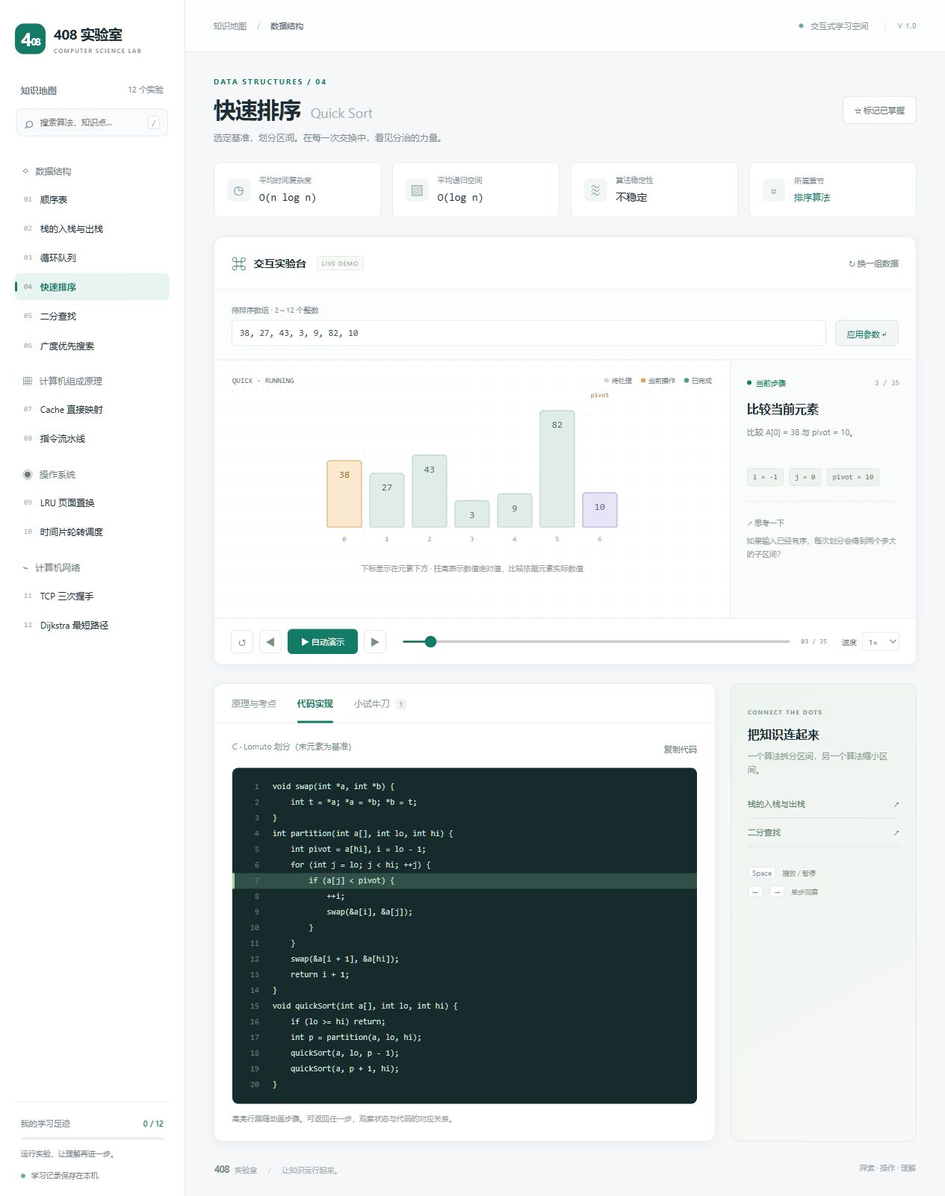
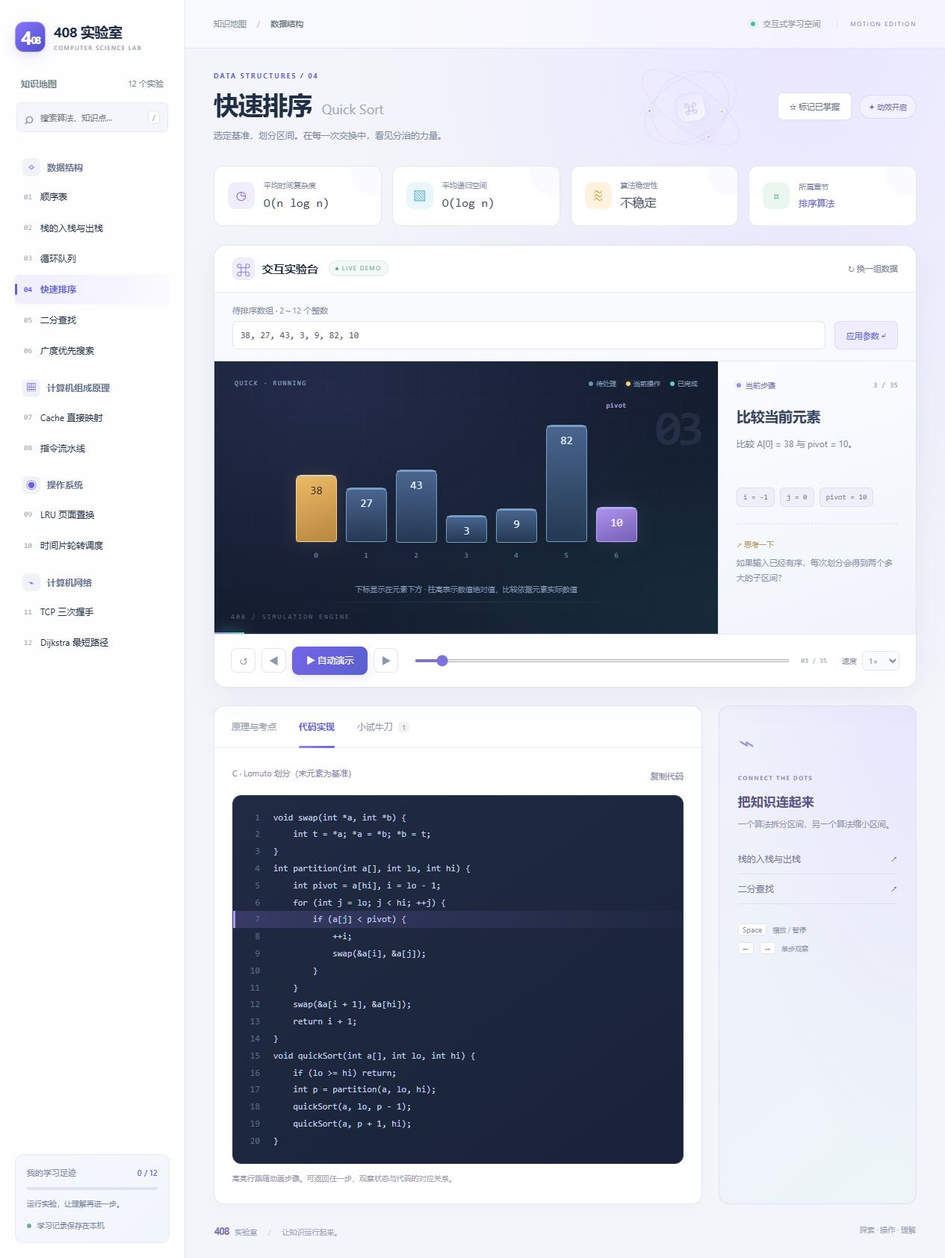
Add fluid algorithm transitions and refresh lab visuals

diff --git a/dist/visual.css b/dist/visual.css
@@ -1,0 +1,18 @@
+/* Motion edition: bright reading surfaces around a high-contrast simulation stage. */
+:root{--bg:#f3f5fa;--ink:#202d46;--muted:#7e8aa3;--line:#e5e9f2;--green:#6360df;--mint:#efedff;--accent:#7d75ff;--shadow:0 9px 35px #313f6610}
+body{background:radial-gradient(ellipse at 85% 0%,#e9e6ff 0,transparent 40%),var(--bg);font-size:14px}
+body[data-subject="1"]{--green:#267eac;--mint:#e9f4fc;--accent:#4baee2}body[data-subject="2"]{--green:#9864c7;--mint:#f5edfc;--accent:#b68df2}body[data-subject="3"]{--green:#138d8b;--mint:#e6f7f3;--accent:#43c7bc}
+.sidebar{background:#ffffffed;border-right:1px solid #e3e7f1;padding-top:27px}.brand-icon{background:linear-gradient(140deg,#8574ff,#504fc6);box-shadow:0 5px 15px #7266e630;border:1px solid #ffffff70}.brand small{color:#99a3b7}.nav-caption{margin-top:32px}.search{background:#f5f6fb;border-color:#e9ecf4;height:40px}.nav-item{padding:10px 12px;transition:background .22s,translate .22s,color .22s}.nav-item:hover{background:#f4f3fe;translate:3px 0}.nav-item.active{background:linear-gradient(90deg,var(--mint),#fafaff);box-shadow:0 2px 6px #6460dc08}.nav-item.active .nav-index{color:var(--green)}.nav-group-title{color:#667493;font-weight:650}.nav-group-title b{background:#f0f2f9;width:24px;height:24px;border-radius:7px;display:grid;place-items:center;color:var(--green)}.side-bottom{background:linear-gradient(135deg,#f7f7ff,#f1f6fb);border:1px solid #e5e9f3;border-radius:11px;padding:15px;margin-top:15px}.progress-track{background:#e0e3f2}.topbar{height:65px;background:#ffffff80;backdrop-filter:blur(16px);border-bottom:1px solid #e2e6f2}.version{font-size:8px;letter-spacing:1.8px;color:#7a72bc}.status-dot{background:#48bd9c;box-shadow:0 0 0 4px #48bd9c12}.top-meta{color:#8e96ad}
+main{padding-top:29px}.page-heading{position:relative;min-height:104px;padding:0 0 7px;isolation:isolate}.page-heading h1{font-size:34px;letter-spacing:-1.3px;margin:8px 0}.page-heading h1 small{color:#9aa4bd;font-size:18px}.page-heading p{color:#7d88a0;font-size:12px}.eyebrow{font-size:9px;letter-spacing:2px;color:var(--green)}.heading-actions{display:flex;align-items:center;gap:10px;position:relative;z-index:2}.secondary{border-color:#e0e3f1;box-shadow:0 2px 5px #27344904;color:#68738b;transition:translate .2s,box-shadow .2s}.secondary:hover{translate:0 -2px;box-shadow:0 5px 12px #5557a014}.motion-toggle{border:1px solid #ddd9f5;border-radius:20px;background:#f4f1ff;color:#7970bc;padding:7px 12px;font-size:10px;white-space:nowrap}.orbit-art{position:absolute;right:220px;top:-10px;width:165px;height:120px;z-index:-1;opacity:.6;pointer-events:none}.orbit{position:absolute;inset:20px 15px;border:1px solid #b5acf44a;border-radius:50%;transform:rotate(-30deg)}.orbit:nth-child(2){transform:rotate(35deg);inset:30px 5px}.orbit:nth-child(3){inset:5px 36px;transform:rotate(50deg)}.orbit i{position:absolute;width:7px;height:7px;left:10%;top:15%;background:#9d8be4;border:2px solid #f4f1ff;border-radius:50%;box-shadow:0 0 15px #b7a2ef}.orbit:nth-child(2) i{background:#58cdb9;left:75%;top:75%}.orbit:nth-child(3) i{background:#e9b45c;left:80%;top:20%}.orbit-core{position:absolute;inset:41px 63px;display:grid;place-items:center;background:linear-gradient(145deg,#e5e0ff,#fff);border:1px solid #d6d0f2;border-radius:12px;color:#9b8dd0;font:17px Consolas;box-shadow:6px 9px 20px #a297d826;animation:levitate 6s ease-in-out infinite}.fact{border-radius:12px;padding:17px 18px;border-color:#e2e7f1;transition:translate .25s,box-shadow .25s;position:relative;overflow:hidden}.fact:after{content:'';position:absolute;width:65px;height:65px;right:-25px;top:-25px;border-radius:50%;background:#8478f609}.fact:hover{translate:0 -4px;box-shadow:0 10px 22px #45558b12}.fact-icon{width:36px;height:36px;background:#f0edff;color:#8973d9;border-radius:10px}.fact:nth-child(2) .fact-icon{background:#eaf6fc;color:#5badd1}.fact:nth-child(3) .fact-icon{background:#fff3df;color:#d6a351}.fact:nth-child(4) .fact-icon{background:#e9f7ef;color:#61b095}.fact small{color:#8792a8}.fact strong{font-size:16px;color:#3d4962}.fact:last-child strong{color:var(--green)}
+.experiment{border-radius:17px;border-color:#dee5ef;box-shadow:0 12px 40px #293c6410;position:relative}.section-top{padding:16px 24px;background:white}.section-icon{width:30px;height:30px;background:var(--mint);border:1px solid #e9e4fa;border-radius:9px;display:grid;place-items:center;font-size:19px}.section-top h2{font-size:15px}.tag{background:#f2f9f6;color:#4c9e88;border-color:#dceee7;border-radius:20px;padding:3px 8px;font-size:8px;letter-spacing:1.4px}.tag:before{content:'';display:inline-block;width:4px;height:4px;background:#50ad90;border-radius:50%;margin-right:5px}.text-button{color:#78829c;transition:color .2s}.text-button:hover{color:var(--green)}.config{background:#f9fafe;padding:15px 24px}.field label{font-size:11px;color:#8490a7}.field input,.field select{background:#fff;border-color:#e0e5f0;border-radius:8px;height:38px;font-size:12px;color:#4f5c78;transition:border-color .2s,box-shadow .2s}.field input:focus,.field select:focus{outline:none;border-color:#a19ae9;box-shadow:0 0 0 3px #8174e912}.config .secondary{height:38px;background:var(--mint);color:var(--green);border-color:#e0dcf6}
+.lab-layout{grid-template-columns:minmax(0,1fr) 265px;min-height:365px}.lab-main{position:relative;isolation:isolate;background:radial-gradient(ellipse at 22% 10%,#30396180,transparent 65%),radial-gradient(ellipse at 100% 90%,#173f4566,transparent 55%),#151d31;background-size:auto;overflow:hidden;padding:22px 27px 20px}.lab-main:before{content:'';position:absolute;inset:0;z-index:-1;pointer-events:none;background-image:linear-gradient(#748cb70b 1px,transparent 1px),linear-gradient(90deg,#748cb70b 1px,transparent 1px);background-size:25px 25px;mask-image:linear-gradient(#000a,transparent)}.lab-main:after{content:'';position:absolute;bottom:42px;left:14%;right:14%;height:1px;background:linear-gradient(90deg,transparent,#6b8fba35,transparent);box-shadow:0 5px 25px #4a9fad22;z-index:-1}.canvas-top{position:relative;z-index:2;font-size:10px}.canvas-top>span{color:#89a3c6;letter-spacing:1.5px;font-size:9px}.legend{color:#7d92b2;font-size:9px;gap:13px}.legend i{width:6px;height:6px;border-radius:50%}.legend .legend-normal{background:#6e91b8}.legend .legend-active{background:#ffd17e;box-shadow:0 0 7px #ffd17e55}.legend .legend-done{background:#5ed7b7}.stage-watermark{position:absolute;left:22px;bottom:18px;font:9px Consolas;letter-spacing:2px;color:#53627e;pointer-events:none}.stage-counter{position:absolute;right:24px;top:52px;color:#738cb526;font:64px Consolas;letter-spacing:-5px;pointer-events:none;font-weight:700}.scene-progress-track{position:absolute;bottom:0;left:0;right:0;height:2px;background:#7387ac15}.scene-progress-track i{display:block;width:0;height:100%;background:linear-gradient(90deg,#a68aff,#55dfc3);box-shadow:0 0 15px #5df2d1;transition:width .45s ease}.visual{position:relative;z-index:1;height:260px;min-width:0;overflow-y:visible;overflow-x:auto;padding:18px 0 20px;scrollbar-width:thin;scrollbar-color:#344969 transparent}.scene-caption{color:#7b8fae;font-size:10px;position:relative;z-index:2}.step-aside{padding:24px;background:linear-gradient(160deg,#fbfcff,#f0f4fa);border-left:1px solid #e3e9f2}.aside-label{color:#7c78b3;font-size:10px}.pulse{background:#9d92e6;box-shadow:0 0 0 4px #9d92e615}.step-aside h3{font-size:19px;color:#35435f;margin:18px 0 10px;letter-spacing:-.3px}.step-aside>p{font-size:12px;color:#7a879e;line-height:1.9;min-height:54px}.variable{border:1px solid #dddff0;background:#eeeff8;color:#77799f;border-radius:6px;padding:4px 8px;font-size:10px}.tip{border-top-color:#dbe0ee;margin-top:22px}.tip>span{color:#b69763}.tip p{font-size:11px;color:#8993aa}.transport{background:#fff;padding:16px 22px;gap:20px}.primary{background:linear-gradient(110deg,#7464e8,#5a61ce);border:0;border-radius:9px;box-shadow:0 4px 12px #6862d92b;font-size:12px;padding:9px 19px;transition:box-shadow .2s,translate .2s}.primary:hover{box-shadow:0 7px 18px #6862d948;translate:0 -1px}.icon-button{border-radius:8px;width:33px;height:33px;border-color:#e1e5ef;color:#8b96b0}.icon-button:hover{background:var(--mint);color:var(--green)}.timeline input{accent-color:#7b72dc;height:4px}.timeline span{color:#9ca5b7}.speed select{border-radius:6px;color:#7e86a5;background:#fafbff;border-color:#e4e7f0}.speed{color:#939cb0}.experiment.is-playing .pulse{animation:breathe 1.8s ease-in-out infinite}.experiment.is-playing .tag:before{animation:breathe 1.4s ease-in-out infinite}.experiment.is-complete .section-icon{color:#38a88c;background:#e3f8f0;border-color:#c7e9de}
+.bars{height:205px;gap:12px;max-width:650px;padding-bottom:26px;position:relative}.bar-column{max-width:55px}.bar{border:1px solid #709ec5;background:linear-gradient(180deg,#6187b9aa,#3d638755);border-radius:8px 8px 4px 4px;color:#e8f1ff;font-size:15px;box-shadow:inset 0 1px 0 #c1e3ff25,0 5px 16px #00000015;transition:background .3s,color .3s,box-shadow .3s;position:relative;z-index:1;will-change:transform}.bar:before{content:'';position:absolute;left:0;right:0;top:0;height:2px;background:#a8c7f080;border-radius:9px}.bar.active,.cell.active{background:linear-gradient(160deg,#edba64,#b78742);border-color:#ffd390;color:#362b1c;box-shadow:0 0 22px #ffc96a20,inset 0 1px 0 #ffeba070}.bar.pivot,.cell.pivot{background:linear-gradient(160deg,#af93ef,#7360b4);border-color:#c7acff;color:#f7eeff;box-shadow:0 0 22px #b89dff20}.bar.done,.cell.done{background:linear-gradient(160deg,#53beaa,#2c776f);border-color:#82ddc6;color:#e1fff4;box-shadow:0 0 20px #48d4b61a}.bar.muted,.cell.muted{opacity:.22}.bar-index{font-size:10px;color:#7389a9;bottom:-24px}.pointer{top:-9px;color:#c5acf8;font-size:9px;letter-spacing:.5px}.cell{border-color:#496b88;background:linear-gradient(160deg,#304660,#25374f);color:#ccdcf5;border-radius:9px;min-width:48px;height:48px;box-shadow:inset 0 1px 0 #8fb0d41a;will-change:transform}.cell.empty{background:#1c283a66;border-color:#40516b;color:#536886;box-shadow:none}.cell-label{color:#7c91b1;font-size:10px}.array-row{gap:9px}.metric-row{color:#92a6c3;font-size:11px}.metric-chip{background:#24364e;border-color:#405777;color:#a8c3e2;border-radius:9px;padding:8px 12px}.stack{border-color:#4d6a8d;background:linear-gradient(0deg,#253d5733,transparent);min-width:120px;border-radius:0 0 10px 10px;padding:8px}.stack-caption{color:#8ba4c3}.stack .cell{border-radius:5px}.gantt-block{color:#b9c9e6;background:#293951;border-color:#496084;box-shadow:inset 0 1px #8098bf30}.gantt-block.active{background:linear-gradient(130deg,#8b73cf,#5f63a4);border-color:#b1a1ec;color:#ece5ff}.gantt-block small{color:#8f9cba}.matrix{font-size:11px;border-spacing:5px}.matrix th{color:#8ba4c5;font-size:10px}.matrix td{background:#293c5466;color:#b2c7e4;border:1px solid #48617d33;min-width:27px;border-radius:5px}.matrix td.active{background:#a9874a;color:#fff1cd;border-color:#ffda9299;box-shadow:0 0 14px #e8bc5c15}.matrix td.done{background:#285951;color:#88d8c1;border-color:#508d7d66}.matrix td.empty{background:#1a26396b;color:#445778;border-color:#253750}.matrix-wrap{padding:0 0 8px}.diagram{height:235px;filter:drop-shadow(0 8px 14px #00000010)}.diagram text{fill:#a6bedb;font-size:12px}.diagram circle{fill:#23354e;stroke:#496c92;stroke-width:2;filter:drop-shadow(0 0 5px #6585ba10)}.diagram circle.active{fill:#b38a48;stroke:#f6c984;filter:drop-shadow(0 0 10px #edb34a55)}.diagram circle.done{fill:#265b52;stroke:#56c6ac}.diagram .edge{stroke:#3b5273;stroke-width:2}.diagram .edge.done{stroke:#56c9b3;stroke-width:2.6;filter:drop-shadow(0 0 4px #5ac7ac33)}.diagram rect{fill:#1b2a40}.diagram circle.motion-packet{fill:#d9fff2;stroke:#74e3c7;stroke-width:1;filter:drop-shadow(0 0 5px #91ffe1);pointer-events:none}.tcp-status{fill:#90a8c6!important;font-size:9px!important}.motion-ghost{z-index:8!important;filter:drop-shadow(0 0 10px #d5a7ff55)}.celebration{position:absolute;inset:0;display:grid;place-items:center;pointer-events:none;z-index:10;overflow:hidden}.celebration i{position:absolute;width:5px;height:8px;border-radius:2px;left:50%;top:50%}
+.content-card{border-radius:14px;border-color:#e3e7f1;box-shadow:0 6px 20px #33496706}.lower-grid{gap:22px;grid-template-columns:minmax(0,1fr) 265px;margin-top:24px}.tabs{gap:30px}.tabs button{padding:18px 0;color:#8a94ab}.tabs button[aria-selected=true]:after{background:linear-gradient(90deg,#9a80f3,#6769d7);border-radius:5px;height:3px}.tab-panel{font-size:12px;color:#77849c;padding:24px}.tab-panel h3{color:#45526d}.principle-grid{gap:25px}.exam-note{border-color:#ddbc7f;color:#a09274;background:#fbf8f0;padding:12px 14px;border-radius:0 8px 8px 0}.connection-card{background:radial-gradient(ellipse at top right,#e3ddff88,transparent 65%),linear-gradient(140deg,#eff0fc,#edf5f7);border-color:#dee2f2;border-radius:14px;padding:25px}.connection-card:before{content:'⌁';display:block;font-size:38px;line-height:1.1;color:#9e92dc;margin-bottom:17px}.connection-card .eyebrow{color:#9c8bc6}.connection-card h3{color:#5b5489;font-size:17px}.connection-card>p{color:#8e90ac}.related{color:#74759b;border-color:#dedff0;font-size:12px;transition:padding .2s}.related:hover{padding-left:5px;color:var(--green)}.keyboard-hint{color:#969eb4}.code-toolbar span{color:#8b81ab}pre{background:linear-gradient(145deg,#202b43,#192238);border:1px solid #303e59;color:#c5d3f0;border-radius:12px;font-size:12px;line-height:1.9;padding:18px 0}.line-number{color:#596e91}.code-line{transition:background .3s,border-color .3s}.code-line.highlight{background:linear-gradient(90deg,#7e6ccf40,#7e6ccf09);border-left-color:#ae95ff}.code-hint{color:#9ba1b3}.quiz-option{border-radius:9px;background:#f8f9fe;color:#677791;border-color:#e6e9f4;transition:translate .2s,background .2s}.quiz-option:hover{translate:4px 0}.quiz-option.correct{background:#e6f5ed;border-color:#8ac6aa}.quiz-option.wrong{background:#fff0ed;border-color:#e3b4a5}.toast{background:#302e50;color:#eee9ff;border:1px solid #ffffff25;box-shadow:0 9px 30px #27284533;border-radius:10px;backdrop-filter:blur(10px)}footer{color:#9ca6bb}footer b{color:#8373b8}
+@keyframes levitate{0%,100%{transform:translateY(0) rotate(-10deg)}50%{transform:translateY(-9px) rotate(6deg)}}@keyframes breathe{0%,100%{box-shadow:0 0 0 0 #a597e43a}50%{box-shadow:0 0 0 5px #a597e400}}
+@media(min-width:1500px){.lab-layout,.lower-grid{grid-template-columns:minmax(0,1fr) 300px}.visual{height:290px}.bars{height:225px}.lab-layout{min-height:400px}}
+@media(max-width:1150px){.lab-layout,.lower-grid{grid-template-columns:minmax(0,1fr) 220px}.lab-main{padding:20px}.step-aside{padding:20px}.fact-icon{display:flex;width:30px;height:30px;flex-shrink:0}.fact{padding:14px;gap:10px}.fact strong{font-size:13px}.orbit-art{right:190px;opacity:.35}.heading-actions{flex-direction:column;align-items:flex-end}.page-heading h1{font-size:31px}.bar-column{max-width:45px}.bars{gap:9px}.cell{min-width:37px}.array-row{gap:6px}}
+@media(max-width:900px){.lab-layout,.lower-grid{grid-template-columns:1fr}.step-aside{grid-template-columns:1fr 1fr;padding:20px;border-left:0}.step-aside h3{margin:3px 0;font-size:17px}.step-aside>p{min-height:0}.tip{margin-top:7px}.fact-icon{display:none}.orbit-art{display:none}.connection-card{display:none}.visual{height:250px}.lab-main{padding-bottom:23px}.page-heading h1 small{font-size:14px}.step-aside .tip{padding-top:10px}.stage-counter{font-size:55px;top:42px}.page-heading{min-height:110px}}
+@media(max-width:650px){.sidebar{visibility:hidden;pointer-events:none}.sidebar.open{visibility:visible;pointer-events:auto}.topbar{height:56px}.page-heading{min-height:140px;margin-bottom:16px;padding-bottom:24px;align-items:flex-start}.page-heading h1{font-size:28px}.page-heading p{font-size:11px}.heading-actions{gap:6px;margin-top:3px}.heading-actions .secondary{font-size:9px;padding:7px 9px}.motion-toggle{font-size:9px;padding:5px 8px}.page-heading h1 small{font-size:12px}.fact-icon{display:flex;width:29px;height:29px}.fact{padding:13px;gap:9px}.facts{gap:10px}.fact strong{font-size:13px}.fact small{font-size:9px}.section-top{padding:15px}.section-top h2{font-size:14px}.config{padding:14px}.lab-main{padding:18px 14px 24px}.canvas-top{flex-wrap:wrap;gap:9px}.legend{font-size:8px;gap:10px}.visual{height:240px;padding-top:24px}.bar{font-size:13px;border-radius:6px 6px 3px 3px}.bars{gap:7px;height:190px}.cell{min-width:32px;height:40px;border-radius:7px}.array-row{gap:5px}.stage-watermark{font-size:7px;left:14px;bottom:7px}.stage-counter{font-size:46px;right:12px}.scene-caption{font-size:8px}.step-aside{padding:17px;gap:9px 12px}.step-aside>p{font-size:11px}.tip p{font-size:10px}.variable{font-size:9px;padding:4px 6px}.transport{padding:14px;gap:10px}.primary{font-size:11px;padding:9px 15px}.timeline{flex-basis:100%;order:3}.speed{margin-left:auto}.lower-grid{margin-top:19px}.tab-panel{padding:18px}.tabs{padding:0 18px;gap:26px}.diagram{height:210px}.matrix{font-size:9px;border-spacing:3px}.matrix td{min-width:24px;padding:5px}.matrix th{font-size:9px}.fact:after{right:-35px}.stage-counter{display:none}pre{font-size:10px}.cell-label{font-size:8px}.brand{font-size:19px}.brand small{font-size:8px}.brand-icon{width:41px;height:41px}}
+.matrix-wrap{width:100%;overflow-x:auto;overflow-y:hidden;scrollbar-width:thin;scrollbar-color:#425478 transparent}.matrix th{white-space:nowrap}.visual:has(.matrix-wrap){overflow:visible;align-items:stretch}.visual:has(.matrix-wrap) .array-row{align-self:center}
+.motion-off *,.motion-off *:before,.motion-off *:after{animation:none!important;transition:none!important;scroll-behavior:auto!important}
+@media(prefers-reduced-motion:reduce){*,*:before,*:after{animation:none!important;transition:none!important;scroll-behavior:auto!important}}

diff --git a/dist/app.js b/dist/app.js
@@ -6,19 +6,19 @@ let mastered=new Set();try{mastered=new Set(JSON.parse(localStorage.getItem('cs4
 const presets={};
 function toast(text){$('#toast').textContent=text;$('#toast').hidden=false;clearTimeout(toastTimer);toastTimer=setTimeout(()=>$('#toast').hidden=true,2300);}
 function renderNav(){const query=$('#search').value.trim().toLowerCase();$('#nav').innerHTML=GROUPS.map((g,i)=>{const rows=LESSONS.filter(l=>l.group===i&&`${l.title} ${l.en} ${l.id}`.toLowerCase().includes(query));return rows.length?`<div class="nav-group"><div class="nav-group-title"><b>${g.icon}</b>${g.name}</div>${rows.map(l=>`<button class="nav-item ${l.id===lesson?.id?'active':''}" data-lesson="${l.id}" ${l.id===lesson?.id?'aria-current="page"':''}><span class="nav-index">${String(LESSONS.indexOf(l)+1).padStart(2,'0')}</span>${l.title}<span class="nav-done">${mastered.has(l.id)?'✓':''}</span></button>`).join('')}</div>`:'';}).join('')||'<p class="empty-search">没有找到知识点，试试“排序”或“TCP”。</p>';$('#progress-text').textContent=`${mastered.size} / ${LESSONS.length}`;$('#progress-fill').style.width=mastered.size/LESSONS.length*100+'%';}
-function stop(){clearInterval(timer);timer=null;$('#play').textContent='▶ 自动演示';$('#play').setAttribute('aria-label','自动演示');}
-function togglePlay(){if(timer){stop();return;}if(position===steps.length-1)position=0;renderStep();$('#play').textContent='Ⅱ 暂停演示';$('#play').setAttribute('aria-label','暂停演示');timer=setInterval(()=>{if(position<steps.length-1){position++;renderStep();}if(position===steps.length-1)stop();},Number($('#speed').value));}
+function stop(){clearInterval(timer);timer=null;document.querySelector('.experiment').classList.remove('is-playing');$('#play').textContent='▶ 自动演示';$('#play').setAttribute('aria-label','自动演示');}
+function togglePlay(){if(timer){stop();return;}if(position===steps.length-1)position=0;renderStep();document.querySelector('.experiment').classList.add('is-playing');$('#play').textContent='Ⅱ 暂停演示';$('#play').setAttribute('aria-label','暂停演示');timer=setInterval(()=>{if(position<steps.length-1){position++;renderStep();}if(position===steps.length-1)stop();},Number($('#speed').value));}
 function valuesFromForm(){return Object.fromEntries(new FormData($('#config')).entries());}
-function loadData(){stop();try{const values=valuesFromForm();const next=buildSteps(lesson.id,values);steps=next;presets[lesson.id]=values;position=0;$('#input-error').textContent='';$('#timeline').max=steps.length-1;renderStep();return true;}catch(e){$('#input-error').textContent=e.message;return false;}}
+function loadData(){stop();try{const values=valuesFromForm();const next=buildSteps(lesson.id,values);steps=next;LabMotion.reset();presets[lesson.id]=values;position=0;$('#input-error').textContent='';$('#timeline').max=steps.length-1;renderStep();return true;}catch(e){$('#input-error').textContent=e.message;return false;}}
 function selectLesson(id){lesson=LESSONS.find(l=>l.id===id)||LESSONS.find(l=>l.id==='quick');stop();$('#breadcrumb').textContent=GROUPS[lesson.group].name;$('#eyebrow').textContent=`${GROUPS[lesson.group].en} / ${String(LESSONS.indexOf(lesson)+1).padStart(2,'0')}`;$('#title').innerHTML=`${lesson.title}<small>${lesson.en}</small>`;$('#subtitle').textContent=lesson.subtitle;document.title=`${lesson.title} · 408 实验室`;$('#facts').innerHTML=lesson.facts.map((v,i)=>`<div class="fact"><span class="fact-icon">${['◷','▧','≋','⌑'][i]}</span><div><small>${lesson.labels[i]}</small><strong>${v}</strong></div></div>`).join('');
  const preset=presets[lesson.id]||{};$('#config').innerHTML=lesson.fields.map(f=>`<div class="field ${f.wide?'wide':''}"><label for="field-${f.key}">${f.label}</label>${f.options?`<select id="field-${f.key}" name="${f.key}">${f.options.map(([v,label])=>`<option value="${v}" ${String(preset[f.key]??f.value)===v?'selected':''}>${label}</option>`).join('')}</select>`:`<input autocomplete="off" id="field-${f.key}" name="${f.key}" type="${f.type||'text'}" ${f.type==='number'?'step="1"':''} value="${esc(preset[f.key]??f.value)}">`}</div>`).join('')+'<button type="submit" class="secondary">应用参数 ↵</button>';
  $('#thinking').textContent=lesson.think;$('#principle').innerHTML=`<h3>核心思想</h3><p>${lesson.intro}</p><div class="principle-grid"><div><h3>如何运行</h3><ul>${lesson.principles.map(p=>`<li>${p}</li>`).join('')}</ul></div><div><h3>408 高频考点</h3><ul>${lesson.exams.map(p=>`<li>${p}</li>`).join('')}</ul></div></div><div class="exam-note">${lesson.note}</div>`;
- $('#code-language').textContent=lesson.language;$('#connection-intro').textContent=lesson.connection;$('#connections').innerHTML=lesson.links.map(id=>`<button class="related" data-lesson="${id}">${LESSONS.find(l=>l.id===id).title}<span>↗</span></button>`).join('');renderQuiz();renderNav();renderMark();loadData();$('#sidebar').classList.remove('open');$('#menu-toggle').setAttribute('aria-expanded','false');
+ $('#code-language').textContent=lesson.language;$('#connection-intro').textContent=lesson.connection;$('#connections').innerHTML=lesson.links.map(id=>`<button class="related" data-lesson="${id}">${LESSONS.find(l=>l.id===id).title}<span>↗</span></button>`).join('');renderQuiz();renderNav();renderMark();LabMotion.enterLesson(lesson.group);loadData();$('#sidebar').classList.remove('open');$('#menu-toggle').setAttribute('aria-expanded','false');
 }
 function renderMark(){$('#mark').textContent=mastered.has(lesson.id)?'✓ 已掌握':'☆ 标记已掌握';$('#mark').classList.toggle('marked',mastered.has(lesson.id));$('#mark').setAttribute('aria-pressed',String(mastered.has(lesson.id)));}
 function renderQuiz(){const q=lesson.quiz;$('#quiz').innerHTML=`<h3>${q.q}</h3>${q.options.map((v,i)=>`<button class="quiz-option" data-answer="${i}">${String.fromCharCode(65+i)}. ${v}</button>`).join('')}<div class="quiz-feedback" role="status"></div>`;}
-function codeLines(line){$('#code-text').innerHTML=lesson.code.split('\n').map((s,i)=>`<span class="code-line ${i+1===line?'highlight':''}"><span class="line-number">${i+1}</span>${esc(s)||' '}</span>`).join('');}
-function renderStep(){const s=steps[position];if(!s)return;$('#step-title').textContent=s.title;$('#step-description').textContent=s.description;$('#step-counter').textContent=`${position+1} / ${steps.length}`;$('#variables').innerHTML=Object.entries(s.vars).map(([k,v])=>`<span class="variable">${esc(k)} = ${esc(v)}</span>`).join('');$('#timeline').value=position;$('#timeline-text').textContent=`${String(position+1).padStart(2,'0')} / ${String(steps.length).padStart(2,'0')}`;$('#prev').disabled=position===0;$('#next').disabled=position===steps.length-1;$('#reset').disabled=position===0&&!timer;$('#scene-label').textContent=`${lesson.id.toUpperCase()} · ${position===steps.length-1?'COMPLETE':position===0?'READY':'RUNNING'}`;$('#visual').innerHTML=draw(s);$('#scene-caption').textContent=caption(s);codeLines(s.line);}
+function codeLines(line){const code=$('#code-text');if(code.dataset.lesson!==lesson.id){code.innerHTML=lesson.code.split('\n').map((s,i)=>`<span class="code-line"><span class="line-number">${i+1}</span>${esc(s)||' '}</span>`).join('');code.dataset.lesson=lesson.id;}[...code.children].forEach((el,i)=>el.classList.toggle('highlight',i+1===line));}
+function renderStep(){const s=steps[position];if(!s)return;$('#step-title').textContent=s.title;$('#step-description').textContent=s.description;$('#step-counter').textContent=`${position+1} / ${steps.length}`;$('#variables').innerHTML=Object.entries(s.vars).map(([k,v])=>`<span class="variable">${esc(k)} = ${esc(v)}</span>`).join('');$('#timeline').value=position;$('#timeline-text').textContent=`${String(position+1).padStart(2,'0')} / ${String(steps.length).padStart(2,'0')}`;$('#prev').disabled=position===0;$('#next').disabled=position===steps.length-1;$('#reset').disabled=position===0&&!timer;$('#scene-label').textContent=`${lesson.id.toUpperCase()} · ${position===steps.length-1?'COMPLETE':position===0?'READY':'RUNNING'}`;LabMotion.render($('#visual'),draw(s),s,lesson.id,position,steps.length);$('#scene-caption').textContent=caption(s);codeLines(s.line);}
 function cls(s,i){return (s.done||[]).includes(i)?'done':i===s.pivot?'pivot':(s.active||[]).includes(i)?'active':s.lo!==undefined&&(i<s.lo||i>s.hi)?'muted':'';}
 function cells(a,active=[],labels=true){return a.map((x,i)=>`<div class="cell ${x===null?'empty':''} ${active.includes(i)?'active':''}">${x===null?'·':esc(x)}${labels?`<span class="cell-label">${i}</span>`:''}</div>`).join('');}
 function draw(s){
@@ -48,4 +48,5 @@ $('#random').addEventListener('click',()=>{const set=(k,v)=>{const el=$(`[name="
 $('#menu-toggle').addEventListener('click',()=>{const open=$('#sidebar').classList.toggle('open');$('#menu-toggle').setAttribute('aria-expanded',String(open));});
 document.addEventListener('click',e=>{if(window.innerWidth<=650&&!e.target.closest('#sidebar,#menu-toggle')){$('#sidebar').classList.remove('open');$('#menu-toggle').setAttribute('aria-expanded','false');}});
 window.addEventListener('hashchange',()=>selectLesson(location.hash.slice(1)));document.addEventListener('keydown',e=>{if(e.target.matches('input,textarea,select,button')||e.ctrlKey||e.metaKey||e.altKey)return;if(e.key===' '){e.preventDefault();togglePlay();}if(e.key==='ArrowRight'){e.preventDefault();changeStep(position+1);}if(e.key==='ArrowLeft'){e.preventDefault();changeStep(position-1);}if(e.key==='/'){e.preventDefault();if(innerWidth<=650)$('#sidebar').classList.add('open');$('#search').focus();}if(e.key==='Escape')$('#sidebar').classList.remove('open');});
+$('#motion-toggle').addEventListener('click',()=>LabMotion.toggle());
 selectLesson(location.hash.slice(1)||'quick');

diff --git a/dist/motion.js b/dist/motion.js
@@ -1,0 +1,122 @@
+'use strict';
+// Snapshot the currently painted position, then animate to the next real state.
+// Stable item identities distinguish equal numbers during sorting.
+const LabMotion = (() => {
+  const preference = matchMedia('(prefers-reduced-motion: reduce)');
+  let enabled = true, scene = null, lastPosition = -1;
+  try { enabled = localStorage.getItem('cs408-motion') !== 'off'; } catch {}
+  const active = () => enabled && !preference.matches;
+  const duration = () => Math.min(620, Math.max(180, Number(document.querySelector('#speed').value) * .76));
+  const easing = 'cubic-bezier(.22,1,.36,1)';
+  const nodes = root => [...root.querySelectorAll('[data-motion]')];
+  function syncButton() {
+    document.body.classList.toggle('motion-off', !active());
+    const button = document.querySelector('#motion-toggle');
+    if (button) { button.textContent = active() ? '✦ 动效开启' : '✧ 简洁动效'; button.setAttribute('aria-pressed', String(active())); }
+  }
+  function cancel() {
+    document.querySelectorAll('.motion-ghost,.motion-packet,.celebration').forEach(el => el.remove());
+    document.querySelectorAll('#visual,#visual *,#step-title,#step-description,.variable,.page-heading,.fact,.experiment,.tab-panel').forEach(el => el.getAnimations().forEach(a => a.cancel()));
+  }
+  function toggle() { enabled = !active(); try { localStorage.setItem('cs408-motion', enabled ? 'on' : 'off'); } catch {} cancel(); syncButton(); }
+  function reveal(el, delay = 0) {
+    if (active() && el) {
+      el.getAnimations().forEach(animation=>animation.cancel());
+      el.animate([{opacity:0,transform:'translateY(14px)'},{opacity:1,transform:'translateY(0)'}], {duration:Math.min(duration(),360),delay,easing});
+    }
+  }
+  function enterLesson(group) {
+    scene = null; lastPosition = -1;
+    document.body.dataset.subject = group;
+    cancel(); syncButton();
+    reveal(document.querySelector('.page-heading'));
+    document.querySelectorAll('.fact').forEach((el,i) => reveal(el,70+i*45));
+    reveal(document.querySelector('.experiment'),100);
+  }
+  function decorate(root,s) {
+    const key = (el,id) => { if(el) el.dataset.motion=id; };
+    if(s.kind==='bars') root.querySelectorAll('.bar').forEach((el,i)=>key(el,'bar:'+(s.ids?.[i]??i)));
+    if(['array','queue'].includes(s.kind)) root.querySelectorAll('.cell').forEach((el,i)=>key(el,'slot:'+i));
+    if(s.kind==='stack') root.querySelectorAll('.stack .cell').forEach((el,i)=>key(el,'stack:'+i));
+    if(s.kind==='lru') root.querySelectorAll('.array-row .cell').forEach((el,i)=>key(el,s.frames[i]===null?'empty:'+i:'page:'+s.frames[i]));
+    if(s.kind==='graph') {root.querySelectorAll('circle').forEach((el,i)=>key(el,'vertex:'+i));root.querySelectorAll('.edge').forEach((el,i)=>key(el,'edge:'+i));}
+    if(s.kind==='tcp') root.querySelectorAll('line[marker-end]').forEach((el,i)=>key(el,'packet-line:'+i));
+    root.querySelectorAll('.matrix tbody tr').forEach((row,r)=>row.querySelectorAll('td').forEach((el,c)=>key(el,s.kind==='pipeline'&&el.classList.contains('active')?'instruction:'+r:`table:${r}:${c}`)));
+    root.querySelectorAll('.gantt-block').forEach((el,i)=>key(el,'run:'+i));
+    root.querySelectorAll('.metric-chip').forEach((el,i)=>key(el,'process:'+i));
+  }
+  function sendPacket(line,ms,reverse=false) {
+    const svg=line.ownerSVGElement;if(!svg)return;
+    const dot=document.createElementNS('http://www.w3.org/2000/svg','circle');
+    dot.setAttribute('r','4');dot.setAttribute('class','motion-packet');dot.setAttribute('aria-hidden','true');svg.append(dot);
+    const from=`translate(${line.getAttribute(reverse?'x2':'x1')}px,${line.getAttribute(reverse?'y2':'y1')}px)`;
+    const to=`translate(${line.getAttribute(reverse?'x1':'x2')}px,${line.getAttribute(reverse?'y1':'y2')}px)`;
+    const animation=dot.animate([{transform:from,opacity:0},{transform:from,opacity:1,offset:.08},{transform:to,opacity:1,offset:.9},{transform:to,opacity:0}],{duration:ms,easing:'ease-in-out'});
+    animation.onfinish=()=>dot.remove();
+  }
+  function render(root,html,s,lessonId,position,total) {
+    const sameScene=scene===lessonId, changed=lastPosition!==position;
+    const old=new Map();
+    if(sameScene) nodes(root).forEach(el=>old.set(el.dataset.motion,{rect:el.getBoundingClientRect(),className:el.getAttribute('class'),text:el.textContent,background:getComputedStyle(el).backgroundColor,clone:el.cloneNode(true)}));
+    root.querySelectorAll('.motion-ghost').forEach(el=>el.remove());
+    const previousPosition=lastPosition;
+    root.innerHTML=html;decorate(root,s);scene=lessonId;lastPosition=position;
+    root.dataset.kind=s.kind;
+    const completed=position===total-1;
+    document.querySelector('.experiment').classList.toggle('is-complete',completed);
+    document.querySelector('#scene-progress').style.width=(position/(total-1)*100)+'%';
+    document.querySelector('#stage-step').textContent=String(position+1).padStart(2,'0');
+    if(!active()||!changed&&sameScene)return;
+    const ms=duration(), current=new Set();
+    nodes(root).forEach((el,i)=>{
+      const id=el.dataset.motion;current.add(id);let before=old.get(id);
+      // A sequential-list shift is a copy operation, so animate its destination
+      // from the source slot while retaining the source until the next copy.
+      if(s.kind==='array'&&position===previousPosition+1&&s.active.length===2) {
+        const [a,b]=s.active;const dest=s.line===6?b:a,source=s.line===6?a:b;
+        if(id==='slot:'+dest)before=old.get('slot:'+source);
+      }
+      if(el.tagName.toLowerCase()==='line') {
+        if((s.kind==='tcp'||el.classList.contains('done'))&&(!before||before.className!==el.getAttribute('class'))) {
+          const len=Math.hypot(Number(el.getAttribute('x2'))-Number(el.getAttribute('x1')),Number(el.getAttribute('y2'))-Number(el.getAttribute('y1')));
+          const edge=s.kind==='graph'?EDGES[Number(id.split(':')[1])]:null;
+          const reverse=edge&&s.parents[edge[0]]===edge[1];
+          el.animate([{strokeDasharray:len,strokeDashoffset:reverse?-len:len},{strokeDasharray:len,strokeDashoffset:0}],{duration:ms,easing});sendPacket(el,ms,reverse);
+        }return;
+      }
+      const after=el.getBoundingClientRect();
+      if(before) {
+        const dx=before.rect.left-after.left,dy=before.rect.top-after.top;
+        if(Math.abs(dx)+Math.abs(dy)>1) {
+          // A small lifted arc makes exchanges legible without changing values.
+          const arc=s.kind==='bars'?(dx>0?-24:24):-10;
+          el.animate([{transform:`translate(${dx}px,${dy}px)`},{transform:`translate(${dx*.5}px,${dy*.5+arc}px)`,offset:.45},{transform:'translate(0,0)'}],{duration:ms,easing});
+        } else if(before.text!==el.textContent||before.className!==el.getAttribute('class')) {
+          if(el.tagName.toLowerCase()==='circle')el.animate([{strokeWidth:2,filter:'brightness(1)'},{strokeWidth:6,filter:'brightness(1.8)'},{strokeWidth:2,filter:'brightness(1)'}],{duration:ms});
+          else el.animate([{backgroundColor:before.background,filter:'brightness(1)'},{filter:'brightness(1.3)',offset:.35},{backgroundColor:getComputedStyle(el).backgroundColor,filter:'brightness(1)'}],{duration:ms,easing});
+        }
+      } else if(el.tagName.toLowerCase()!=='circle') {
+        el.animate([{opacity:0,transform:`translateY(${s.kind==='stack'?-45:16}px) scale(.88)`},{opacity:1,transform:'translateY(0) scale(1)'}],{duration:ms,delay:sameScene?0:Math.min(i*22,180),easing});
+      }
+    });
+    if(sameScene&&['stack','lru'].includes(s.kind)) {
+      const area=root.getBoundingClientRect();
+      old.forEach((item,id)=>{if(current.has(id)||!id.startsWith(s.kind==='stack'?'stack:':'page:'))return;
+        const ghost=item.clone;ghost.classList.add('motion-ghost');ghost.removeAttribute('data-motion');ghost.setAttribute('aria-hidden','true');
+        Object.assign(ghost.style,{position:'absolute',left:item.rect.left-area.left+'px',top:item.rect.top-area.top+'px',width:item.rect.width+'px',height:item.rect.height+'px',margin:0,pointerEvents:'none'});root.append(ghost);
+        const a=ghost.animate([{opacity:.85,transform:'translate(0,0)'},{opacity:0,transform:'translate(35px,-45px) scale(.8)'}],{duration:ms,easing});a.onfinish=()=>ghost.remove();
+      });
+    }
+    reveal(document.querySelector('#step-title'));reveal(document.querySelector('#step-description'),25);
+    document.querySelectorAll('.variable').forEach((el,i)=>reveal(el,Math.min(i*20,80)));
+    if(completed&&position!==previousPosition) celebrate(root);
+  }
+  function celebrate(root) {
+    if(!active())return;
+    const layer=document.createElement('div');layer.className='celebration';layer.setAttribute('aria-hidden','true');root.append(layer);
+    for(let i=0;i<16;i++) {const dot=document.createElement('i');dot.style.background=['#5ce6c3','#a99bff','#ffcc72','#71c8ff'][i%4];layer.append(dot);const angle=i*Math.PI/8;const a=dot.animate([{transform:'translate(0,0) scale(0)',opacity:0},{opacity:1,offset:.15},{transform:`translate(${Math.cos(angle)*135}px,${Math.sin(angle)*75}px) rotate(${i*35}deg) scale(.7)`,opacity:0}],{duration:850,easing:'cubic-bezier(.1,.8,.3,1)'});if(i===15)a.onfinish=()=>layer.remove();}
+  }
+  preference.addEventListener('change',()=>{cancel();syncButton();});
+  document.addEventListener('click',event=>{const button=event.target.closest('button');if(!button||!active())return;button.animate([{scale:'.96'},{scale:'1'}],{duration:250,easing});if(button.matches('[data-tab]'))requestAnimationFrame(()=>reveal(document.querySelector('.tab-panel:not([hidden])')));});
+  return {render,enterLesson,toggle,syncButton,reset:()=>{scene=null;lastPosition=-1;},cancel};
+})();

diff --git a/dist/index.html b/dist/index.html
@@ -4,7 +4,7 @@
   <meta charset="UTF-8"><meta name="viewport" content="width=device-width,initial-scale=1">
   <meta name="description" content="把抽象知识变成可操作的实验。计算机408数据结构、组成原理、操作系统与网络交互可视化。">
   <title>408 实验室 · 让知识运行起来</title>
-  <link rel="stylesheet" href="style.css">
+  <link rel="stylesheet" href="style.css"><link rel="stylesheet" href="visual.css">
 </head>
 <body>
 <aside class="sidebar" id="sidebar">
@@ -15,14 +15,14 @@
   <div class="side-bottom"><div class="progress-title"><span>我的学习足迹</span><b id="progress-text">0 / 12</b></div><div class="progress-track"><i id="progress-fill"></i></div><p>运行实验，让理解再进一步。</p><span class="local-dot"></span> 学习记录保存在本机</div>
 </aside>
 <div class="workspace">
-  <header class="topbar"><div><button id="menu-toggle" class="icon-button mobile-only" aria-label="切换导航">☰</button><span>知识地图</span><span class="slash">/</span><span id="breadcrumb"></span></div><div class="top-meta"><span class="status-dot"></span> 交互式学习空间 <span class="version">V 1.0</span></div></header>
+  <header class="topbar"><div><button id="menu-toggle" class="icon-button mobile-only" aria-label="切换导航">☰</button><span>知识地图</span><span class="slash">/</span><span id="breadcrumb"></span></div><div class="top-meta"><span class="status-dot"></span> 交互式学习空间 <span class="version">MOTION EDITION</span></div></header>
   <main>
-    <div class="page-heading"><div><div class="eyebrow" id="eyebrow"></div><h1 id="title"></h1><p id="subtitle"></p></div><button id="mark" class="secondary">☆ 标记已掌握</button></div>
+    <div class="page-heading"><div><div class="eyebrow" id="eyebrow"></div><h1 id="title"></h1><p id="subtitle"></p></div><div class="heading-actions"><button id="mark" class="secondary">☆ 标记已掌握</button><button id="motion-toggle" class="motion-toggle" aria-pressed="true">✦ 动效开启</button></div><div class="orbit-art" aria-hidden="true"><span class="orbit"><i></i></span><span class="orbit"><i></i></span><span class="orbit"><i></i></span><span class="orbit-core">⌘</span></div></div>
     <div class="facts" id="facts"></div>
     <section class="experiment">
       <div class="section-top"><div><span class="section-icon">⌘</span><h2>交互实验台</h2><span class="tag">LIVE DEMO</span></div><button id="random" class="text-button">↻ 换一组数据</button></div>
       <form id="config" class="config"></form><p id="input-error" class="input-error" role="alert"></p>
-      <div class="lab-layout"><div class="lab-main"><div class="canvas-top"><span id="scene-label"></span><div class="legend"><span><i class="legend-normal"></i>待处理</span><span><i class="legend-active"></i>当前操作</span><span><i class="legend-done"></i>已完成</span></div></div><div id="visual" class="visual"></div><div class="scene-caption" id="scene-caption"></div></div><aside class="step-aside"><div class="aside-label"><span class="pulse"></span> 当前步骤 <span id="step-counter"></span></div><h3 id="step-title"></h3><p id="step-description" aria-live="polite"></p><div id="variables" class="variables"></div><div class="tip"><span>↗ 思考一下</span><p id="thinking"></p></div></aside></div>
+      <div class="lab-layout"><div class="lab-main"><div class="canvas-top"><span id="scene-label"></span><div class="legend"><span><i class="legend-normal"></i>待处理</span><span><i class="legend-active"></i>当前操作</span><span><i class="legend-done"></i>已完成</span></div></div><span class="stage-counter" id="stage-step" aria-hidden="true">01</span><div id="visual" class="visual"></div><span class="stage-watermark" aria-hidden="true">408 / SIMULATION ENGINE</span><div class="scene-progress-track" aria-hidden="true"><i id="scene-progress"></i></div><div class="scene-caption" id="scene-caption"></div></div><aside class="step-aside"><div class="aside-label"><span class="pulse"></span> 当前步骤 <span id="step-counter"></span></div><h3 id="step-title"></h3><p id="step-description" aria-live="polite"></p><div id="variables" class="variables"></div><div class="tip"><span>↗ 思考一下</span><p id="thinking"></p></div></aside></div>
       <div class="transport"><div class="transport-buttons"><button id="reset" class="icon-button" title="回到起点" aria-label="回到起点">↺</button><button id="prev" class="icon-button" title="上一步（←）" aria-label="上一步">◀</button><button id="play" class="primary">▶ 自动演示</button><button id="next" class="icon-button" title="下一步（→）" aria-label="下一步">▶</button></div><label class="timeline"><input id="timeline" type="range" min="0" value="0" aria-label="实验进度"><span id="timeline-text">01 / 01</span></label><label class="speed">速度 <select id="speed" aria-label="播放速度"><option value="1400">0.5×</option><option value="800" selected>1×</option><option value="350">2×</option></select></label></div>
     </section>
     <div class="lower-grid"><section class="content-card"><div class="tabs" role="tablist"><button role="tab" aria-selected="true" data-tab="principle">原理与考点</button><button role="tab" aria-selected="false" data-tab="code">代码实现</button><button role="tab" aria-selected="false" data-tab="quiz">小试牛刀 <span>1</span></button></div><div id="principle" class="tab-panel"></div><div id="code" class="tab-panel" hidden><div class="code-toolbar"><span id="code-language"></span><button id="copy" class="text-button">复制代码</button></div><pre><code id="code-text"></code></pre><p class="code-hint">高亮行跟随动画步骤。可返回任一步，观察状态与代码的对应关系。</p></div><div id="quiz" class="tab-panel" hidden></div></section><aside class="connection-card"><span class="eyebrow">CONNECT THE DOTS</span><h3>把知识连起来</h3><p id="connection-intro"></p><div id="connections"></div><div class="keyboard-hint"><kbd>Space</kbd> 播放 / 暂停 <br><kbd>←</kbd> <kbd>→</kbd> 单步观察</div></aside></div>
@@ -30,5 +30,5 @@
   </main>
 </div>
 <div id="toast" class="toast" role="status" hidden></div>
-<script src="lessons.js"></script><script src="engine.js"></script><script src="app.js"></script>
+<script src="lessons.js"></script><script src="engine.js"></script><script src="motion.js"></script><script src="app.js"></script>
 </body></html>

diff --git a/dist/engine.js b/dist/engine.js
@@ -7,17 +7,17 @@ function buildSteps(id,values){
  const out=[];
  const add=(title,description,state={},vars={},line=1)=>{out.push(JSON.parse(JSON.stringify({title,description,vars,line,...state})));};
  if(id==='quick'){
-  const a=numbers(values.data,2,12),done=[];
-  const shot=(title,desc,active=[],pivot=-1,lo=0,hi=a.length-1,vars={},line=1)=>add(title,desc,{kind:'bars',a,active,pivot,done,lo,hi},vars,line);
+  const a=numbers(values.data,2,12),done=[],ids=a.map((_,i)=>i);
+  const shot=(title,desc,active=[],pivot=-1,lo=0,hi=a.length-1,vars={},line=1)=>add(title,desc,{kind:'bars',a,ids,active,pivot,done,lo,hi},vars,line);
   shot('准备划分','从整个数组开始，先选择当前区间的最后一个元素为基准。',[],-1,0,a.length-1,{'区间':`[0, ${a.length-1}]`},15);
   function sort(lo,hi){if(lo>hi)return;if(lo===hi){done.push(lo);shot('单元素区间','只有一个元素的区间天然有序。',[],-1,lo,hi,{},16);return;}let i=lo-1,pivot=a[hi];
    shot('选定基准',`选取 A[${hi}] = ${pivot} 为 pivot。紫色表示基准元素。`,[],hi,lo,hi,{lo,hi,i,pivot},5);
    for(let j=lo;j<hi;j++){
     shot('比较当前元素',`比较 A[${j}] = ${a[j]} 与 pivot = ${pivot}。`,[j],hi,lo,hi,{i,j,pivot},7);
-    if(a[j]<pivot){i++;[a[i],a[j]]=[a[j],a[i]];shot(i===j?'扩展较小区域':'交换到左侧',i===j?`元素已在正确一侧，i 增加到 ${i}。`:`交换 A[${i}] 和 A[${j}]，使 [${lo}, ${i}] 都小于基准。`,[i,j],hi,lo,hi,{i,j,pivot},9);}
+    if(a[j]<pivot){i++;[a[i],a[j]]=[a[j],a[i]];[ids[i],ids[j]]=[ids[j],ids[i]];shot(i===j?'扩展较小区域':'交换到左侧',i===j?`元素已在正确一侧，i 增加到 ${i}。`:`交换 A[${i}] 和 A[${j}]，使 [${lo}, ${i}] 都小于基准。`,[i,j],hi,lo,hi,{i,j,pivot},9);}
     else shot('保留在右侧',`${a[j]} 不小于 ${pivot}，i 保持不变，继续扫描。`,[j],hi,lo,hi,{i,j,pivot},7);
    }
-   const p=i+1;[a[p],a[hi]]=[a[hi],a[p]];done.push(p);shot('基准归位',`基准 ${pivot} 位于下标 ${p}，这一位置已经最终确定。`,[p],-1,lo,hi,{p,pivot},12);
+   const p=i+1;[a[p],a[hi]]=[a[hi],a[p]];[ids[p],ids[hi]]=[ids[hi],ids[p]];done.push(p);shot('基准归位',`基准 ${pivot} 位于下标 ${p}，这一位置已经最终确定。`,[p],-1,lo,hi,{p,pivot},12);
    sort(lo,p-1);sort(p+1,hi);
   }sort(0,a.length-1);shot('排序完成','所有基准和子区间都已确定，数组已按升序排列。',[],-1,0,a.length-1,{'元素数':a.length},20);
  }

diff --git a/README.md b/README.md
@@ -20,6 +20,8 @@ python -m http.server 4080 --directory dist
 - 自定义输入、随机示例、自动播放、单步前后、时间轴定位与播放速度。
 - 逐步说明、变量状态、原理与考点、C 代码或明确标注的伪代码、代码行跟踪、小测验。
 - 搜索、知识关联、响应式布局、键盘控制与本地掌握记录。
+- Motion Edition：深色演示舞台与多色状态、沿轨迹交换的排序元素、顺序表移动、栈元素进出、图路径与 TCP 报文传播、流水线阶段过渡。
+- 动效时长随播放速度调整；支持关闭动效，并遵循系统的“减少动态效果”设置。
 
 ## 使用说明
 
@@ -34,6 +36,8 @@ python -m http.server 4080 --directory dist
 - `dist/lessons.js`：课程内容、输入配置、C 代码、测验。
 - `dist/engine.js`：纯函数算法状态生成器，每一步保存独立快照。
 - `dist/app.js`：交互、SVG 与 HTML 可视化、播放和本地记录。
+- `dist/motion.js`：基于元素身份和位置快照的过渡、传播与完成反馈。
+- `dist/visual.css`：Motion Edition 配色、演示舞台、响应式布局与装饰动效。
 
 所有计算在浏览器本地完成，不发送输入数据。掌握记录保存在 localStorage；文件方式打开时，记录是否持久化取决于浏览器对 file:// 的实现。
 
@@ -49,8 +53,8 @@ python -m http.server 4080 --directory dist
 node tests/verify.cjs
 ```
 
-测试覆盖全部 12 个实验、304 组快速排序输入、顺序表插入删除位置、图最短路径的独立参照结果及非法输入，共 483 项检查。
+测试覆盖全部 12 个实验、304 组快速排序输入、重复值的动画身份追踪、顺序表插入删除位置、图最短路径的独立参照结果及非法输入，共 625 项检查。
 
 ## 发布为静态网站
 
-将 `dist/` 目录作为网站根目录部署即可，不需要构建步骤或服务器端运行时。不要只上传 `index.html`，同目录的三个 JavaScript 文件和 CSS 文件也需要保留。
+将完整的 `dist/` 目录作为网站根目录部署即可，不需要构建步骤或服务器端运行时。同目录的四个 JavaScript 文件和两个 CSS 文件都需要保留。
